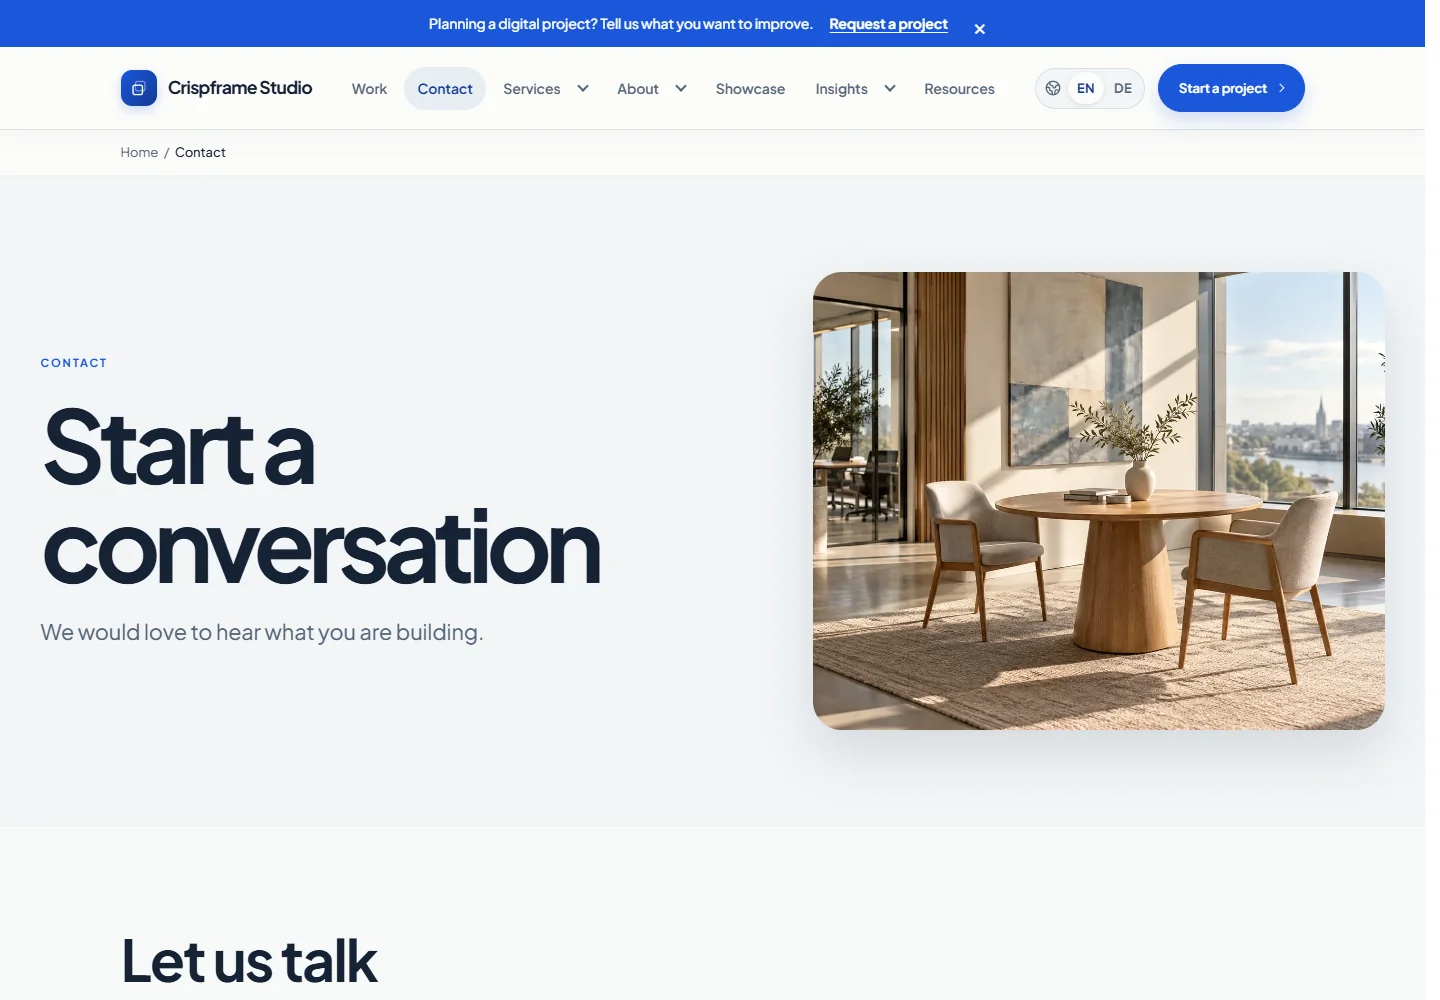
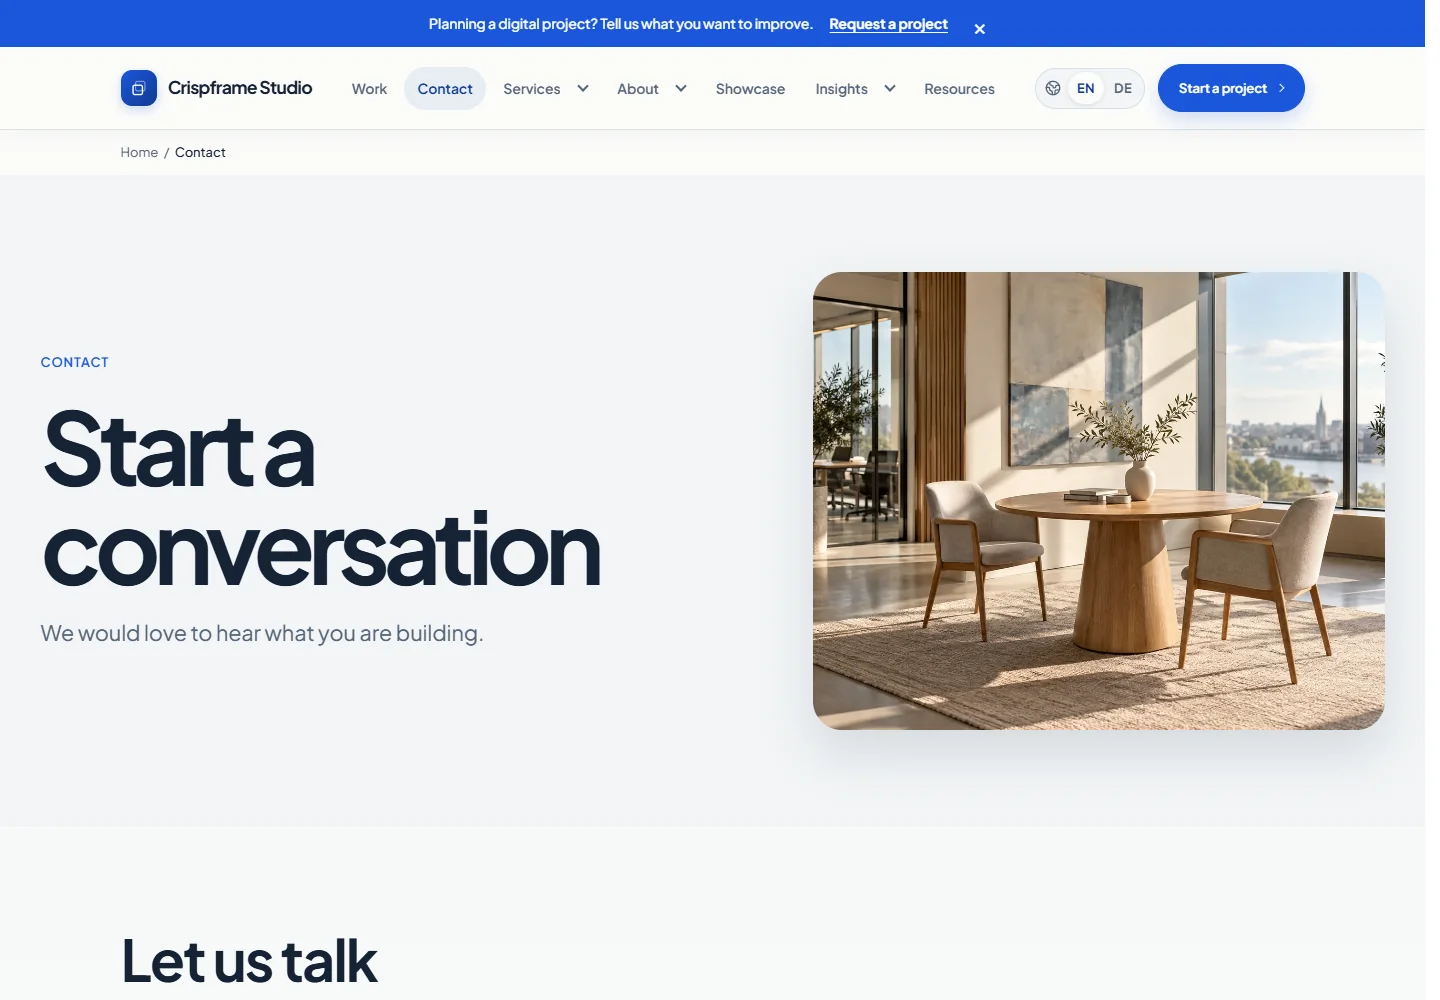
Refresh demo screenshots after editorial and mobile polish

diff --git a/README.md b/README.md
@@ -55,7 +55,7 @@ In TYPO3 **Site Management → Sites**, add the **Crispframe Agency Theme** Site
 
 ![Editorial project rows on the editable Style variants page](packages/agency_theme/Documentation/Images/style-variants-desktop.webp)
 
-Screenshots were captured from the development demo on **28 September 2026**. The demo can include fixes ahead of the latest Composer release. Its photographs, copy, and prices are replaceable examples; demo content lives in the optional demo package.
+Screenshots were captured from the development demo on **29 September 2026**. The demo can include fixes ahead of the latest Composer release. Its photographs, copy, and prices are replaceable examples; demo content lives in the optional demo package.
 
 ## Make it yours
 

diff --git a/packages/agency_theme/Documentation/Screenshots.md b/packages/agency_theme/Documentation/Screenshots.md
@@ -1,6 +1,6 @@
 # Crispframe screenshot gallery
 
-Real browser captures from the [development demo](https://dev-crispframe.ppxl.dev/), taken **28 September 2026**. Desktop previews use 1440 px width; mobile previews use 390 px. The contact form and pricing captures use taller viewports.
+Real browser captures from the [development demo](https://dev-crispframe.ppxl.dev/), taken **29 September 2026**. Desktop previews use 1440 px width; mobile previews use 390 px. The contact form and pricing captures use taller viewports.
 
 The demo can contain changes ahead of the latest Composer release. All names, prices, photos, and editorial content shown here are replaceable examples from the optional demo package.
 

diff --git a/packages/agency_theme/README.md b/packages/agency_theme/README.md
@@ -65,7 +65,7 @@ The [demo package](https://github.com/PhantomPixelDev/crispframe-agency-demo) im
 
 ![Editorial project rows with a wide image and concise case-study text](Documentation/Images/style-variants-desktop.webp)
 
-Captured from the live development demo on **28 September 2026**. The demo can include changes ahead of the latest tagged release. Branding, images, copy, and prices are editable examples; they are not imported by the theme.
+Captured from the live development demo on **29 September 2026**. The demo can include changes ahead of the latest tagged release. Branding, images, copy, and prices are editable examples; they are not imported by the theme.
 
 ## Content Blocks
 
